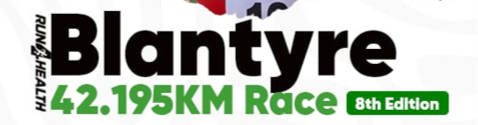
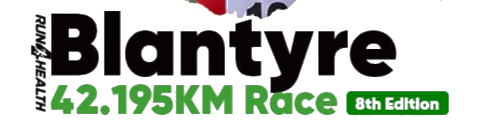
Add files via upload

diff --git a/css/styles.css b/css/styles.css
@@ -1792,10 +1792,9 @@ body.course-full #page-course .container.section { padding: 0.35rem 0.5rem 0; }
   width: min(520px, 92%);
   height: auto;
   display: block;
-  filter: drop-shadow(0 6px 18px rgba(0,0,0,0.25));
-  background: #fff;
-  border-radius: 10px;
-  padding: 8px 12px;
+  filter: drop-shadow(0 2px 8px rgba(0,0,0,0.35));
+  background: transparent;
+  padding: 0;
 }
 
 .footer-wordmark {
@@ -1803,9 +1802,7 @@ body.course-full #page-course .container.section { padding: 0.35rem 0.5rem 0; }
   width: auto;
   max-width: 260px;
   object-fit: contain;
-  background:#fff;
-  padding:6px 10px;
-  border-radius:8px;
+  background: transparent;
   margin: 0 auto 0.6rem;
   display:block;
 }
